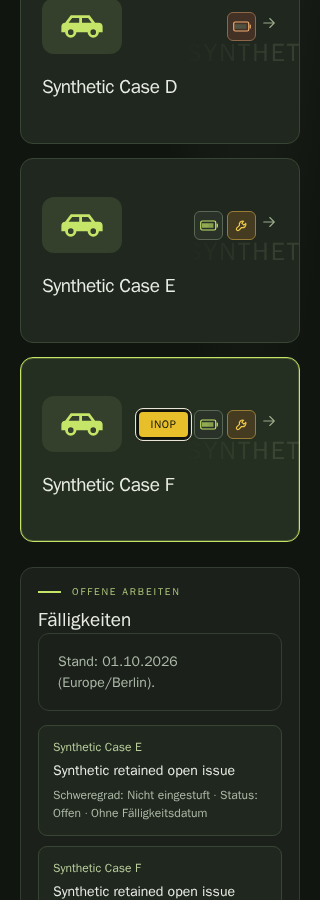
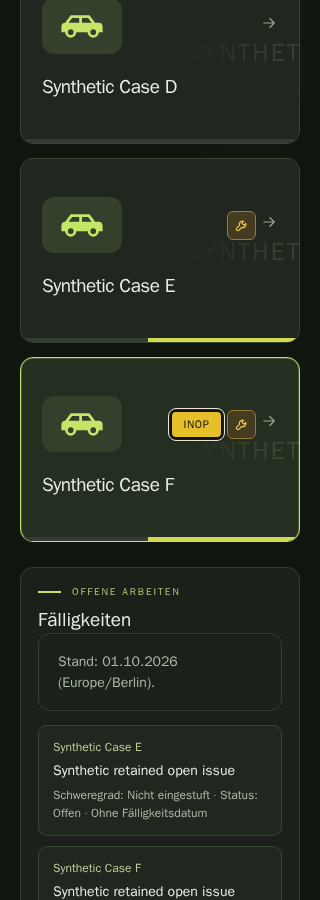
Replace HU battery with a bottom-edge countdown bar and fix schema-4 updates

diff --git a/frontend/styles.css b/frontend/styles.css
@@ -50,13 +50,12 @@
 .card-readiness.unavailable{color:#f6d1a7;border-color:#987044;background:#453523}
 .card-work{width:29px;padding:0;color:#f0c94b;background:#443b21;border-color:#987c36}
 .card-work svg{width:16px;height:16px;flex:none;stroke-width:1.8}
-.card-inspection{display:inline-flex;align-items:center;justify-content:center;width:29px;height:29px;border:1px solid #596754;border-radius:6px;background:#293128;color:#91a08c;flex:none}
-.card-inspection svg{width:18px;height:13px;stroke-width:1.6}.card-inspection svg .inspection-card-cell{fill:#596754;stroke:none}.card-inspection svg .inspection-card-cell.filled{fill:currentColor}.card-inspection.state-upcoming{color:#c5e568}.card-inspection.state-due{color:#f0c94b;background:#443b21;border-color:#987c36}.card-inspection.state-overdue{color:#f0ad70;background:#443126;border-color:#8d6748}.card-inspection.state-blocking{color:#ffccba;background:#49302a;border-color:#855947}.card-inspection.unavailable{color:#879184}
+.card-inspection-progress{position:absolute;left:0;right:0;bottom:0;height:4px;display:grid;grid-template-columns:repeat(24,minmax(0,1fr));gap:0;overflow:hidden;border-radius:0 0 12px 12px;background:#252c22;pointer-events:none}.card-inspection-cell{min-width:0;background:#353d32}.card-inspection-progress.unknown{background:#252c22}.card-inspection-progress.unknown .card-inspection-cell{background:#353d32}
 @media(max-width:350px){.card-top{gap:4px}.card-indicators{gap:4px}.car-icon{width:80px}}
 
 .inspection-panel{margin:17px 0 8px;padding:14px 15px;border:1px solid #394534;border-radius:10px;background:#171d16}
 .inspection-heading{display:flex;align-items:center;justify-content:space-between;gap:12px}.inspection-heading h4{font-size:13px;margin:0}.inspection-scale-label{color:#9daa99;font-size:10px}.inspection-message{margin:7px 0 0;color:#d6e1d2;font-size:13px;line-height:1.5;overflow-wrap:anywhere}
-.inspection-message.state-blocking{color:#ffccba}.inspection-meter-wrap{margin-top:10px}.inspection-meter{display:grid;grid-template-columns:repeat(12,minmax(0,1fr));gap:4px;max-width:500px;height:13px}.inspection-meter-cell{border:1px solid #53604d;border-radius:2px;background:#20271e}.inspection-meter-cell.filled{background:#c5e568;border-color:#8ca94c}.inspection-meter.state-due .inspection-meter-cell.filled{background:#f0c94b;border-color:#987c36}.inspection-meter.state-overdue .inspection-meter-cell.filled{background:#f0ad70;border-color:#8d6748}.inspection-meter.state-blocking .inspection-meter-cell.filled{background:#e98b72;border-color:#855947}.inspection-scale-note,.inspection-asof{font-size:10px;color:#8f9d8b;line-height:1.4;margin:6px 0 0}
+.inspection-message.state-blocking{color:#ffccba}.inspection-meter-wrap{margin-top:10px}.inspection-meter{display:grid;grid-template-columns:repeat(24,minmax(0,1fr));gap:4px;max-width:500px;height:13px}.inspection-meter-cell{border:1px solid #53604d;border-radius:2px;background:#20271e}.inspection-meter.unknown .inspection-meter-cell{background:#20271e;border-color:#53604d}.inspection-scale-note,.inspection-asof{font-size:10px;color:#8f9d8b;line-height:1.4;margin:6px 0 0}
 
 /* Standalone entry forms keep actions outside the compact vehicle cards. */
 .own-toolbar{display:flex;flex-wrap:wrap;gap:9px;margin:0 0 18px}.own-notice{color:#d3e7b1;font-size:13px;line-height:1.5}.own-notice:empty{display:none}
@@ -70,3 +69,28 @@
 .record{flex-wrap:wrap}.record-edit{margin-left:auto;flex:none}.record-edit-readonly{display:flex;flex-wrap:wrap;gap:8px 22px;padding:12px 14px;border:1px solid #485443;border-radius:9px;background:#171d16}.record-edit-readonly p{margin:0;color:#d4dfcc;font-size:13px;line-height:1.5;overflow-wrap:anywhere}
 @media(max-width:800px){.logbook-filters{grid-template-columns:repeat(2,minmax(0,1fr))}.logbook-filters>button{align-self:end}.issue-row{grid-template-columns:repeat(2,minmax(0,1fr))}.issue-field-text{grid-column:1/-1}.issue-row .issue-remove{grid-column:1/-1;justify-self:start}}
 @media(max-width:600px){.own-fields{grid-template-columns:1fr}.own-panel{padding:19px}.own-toolbar{gap:7px}.own-toolbar button{flex:1 1 auto}.own-toolbar .condition-save{flex:0 1 auto}.logbook-filters{grid-template-columns:1fr 1fr}.logbook-filters>button{grid-column:1/-1}.logbook-heading{align-items:flex-start}.work-dashboard{padding:17px}.work-items{grid-template-columns:1fr}.issue-row{grid-template-columns:1fr}.issue-field-text,.issue-row .issue-remove{grid-column:1}}
+
+.level-1 .card-inspection-cell.filled,.level-1 .inspection-meter-cell.filled{background:hsl(0 64% 58%);border-color:hsl(0 58% 45%)}
+.level-2 .card-inspection-cell.filled,.level-2 .inspection-meter-cell.filled{background:hsl(5 64% 58%);border-color:hsl(5 58% 45%)}
+.level-3 .card-inspection-cell.filled,.level-3 .inspection-meter-cell.filled{background:hsl(10 64% 58%);border-color:hsl(10 58% 45%)}
+.level-4 .card-inspection-cell.filled,.level-4 .inspection-meter-cell.filled{background:hsl(16 64% 58%);border-color:hsl(16 58% 45%)}
+.level-5 .card-inspection-cell.filled,.level-5 .inspection-meter-cell.filled{background:hsl(21 64% 58%);border-color:hsl(21 58% 45%)}
+.level-6 .card-inspection-cell.filled,.level-6 .inspection-meter-cell.filled{background:hsl(26 64% 58%);border-color:hsl(26 58% 45%)}
+.level-7 .card-inspection-cell.filled,.level-7 .inspection-meter-cell.filled{background:hsl(31 64% 58%);border-color:hsl(31 58% 45%)}
+.level-8 .card-inspection-cell.filled,.level-8 .inspection-meter-cell.filled{background:hsl(37 64% 58%);border-color:hsl(37 58% 45%)}
+.level-9 .card-inspection-cell.filled,.level-9 .inspection-meter-cell.filled{background:hsl(42 64% 58%);border-color:hsl(42 58% 45%)}
+.level-10 .card-inspection-cell.filled,.level-10 .inspection-meter-cell.filled{background:hsl(47 64% 58%);border-color:hsl(47 58% 45%)}
+.level-11 .card-inspection-cell.filled,.level-11 .inspection-meter-cell.filled{background:hsl(52 64% 58%);border-color:hsl(52 58% 45%)}
+.level-12 .card-inspection-cell.filled,.level-12 .inspection-meter-cell.filled{background:hsl(57 64% 58%);border-color:hsl(57 58% 45%)}
+.level-13 .card-inspection-cell.filled,.level-13 .inspection-meter-cell.filled{background:hsl(63 64% 58%);border-color:hsl(63 58% 45%)}
+.level-14 .card-inspection-cell.filled,.level-14 .inspection-meter-cell.filled{background:hsl(68 64% 58%);border-color:hsl(68 58% 45%)}
+.level-15 .card-inspection-cell.filled,.level-15 .inspection-meter-cell.filled{background:hsl(73 64% 58%);border-color:hsl(73 58% 45%)}
+.level-16 .card-inspection-cell.filled,.level-16 .inspection-meter-cell.filled{background:hsl(78 64% 58%);border-color:hsl(78 58% 45%)}
+.level-17 .card-inspection-cell.filled,.level-17 .inspection-meter-cell.filled{background:hsl(83 64% 58%);border-color:hsl(83 58% 45%)}
+.level-18 .card-inspection-cell.filled,.level-18 .inspection-meter-cell.filled{background:hsl(89 64% 58%);border-color:hsl(89 58% 45%)}
+.level-19 .card-inspection-cell.filled,.level-19 .inspection-meter-cell.filled{background:hsl(94 64% 58%);border-color:hsl(94 58% 45%)}
+.level-20 .card-inspection-cell.filled,.level-20 .inspection-meter-cell.filled{background:hsl(99 64% 58%);border-color:hsl(99 58% 45%)}
+.level-21 .card-inspection-cell.filled,.level-21 .inspection-meter-cell.filled{background:hsl(104 64% 58%);border-color:hsl(104 58% 45%)}
+.level-22 .card-inspection-cell.filled,.level-22 .inspection-meter-cell.filled{background:hsl(110 64% 58%);border-color:hsl(110 58% 45%)}
+.level-23 .card-inspection-cell.filled,.level-23 .inspection-meter-cell.filled{background:hsl(115 64% 58%);border-color:hsl(115 58% 45%)}
+.level-24 .card-inspection-cell.filled,.level-24 .inspection-meter-cell.filled{background:hsl(120 64% 58%);border-color:hsl(120 58% 45%)}

diff --git a/frontend/app.js b/frontend/app.js
@@ -91,23 +91,21 @@ function issueReason(issue, vehicleId) {
   const projection = currentWorkProjection(vehicleId, issue);
   return [issue.severity === "critical" ? "Kritisch" : "", projection && dueStateLabels[projection.dueState] || "", issue.dueDate ? `fällig ${readableDate(issue.dueDate)}` : ""].filter(Boolean).join(", ");
 }
-function cardInspectionBattery(vehicle) {
-  const valid = validInspection(vehicle), value = valid ? vehicle.inspection : null;
-  const battery = el("span", `card-inspection ${valid ? `state-${value.state}` : "unavailable"}`);
-  battery.setAttribute("title", inspectionSummary(vehicle));
-  const svg = document.createElementNS("http://www.w3.org/2000/svg", "svg");
-  svg.setAttribute("viewBox", "0 0 24 16"); svg.setAttribute("aria-hidden", "true");
-  const frame = document.createElementNS("http://www.w3.org/2000/svg", "rect");
-  frame.setAttribute("x", "1"); frame.setAttribute("y", "2"); frame.setAttribute("width", "20"); frame.setAttribute("height", "12"); frame.setAttribute("rx", "2"); frame.setAttribute("fill", "none");
-  const tip = document.createElementNS("http://www.w3.org/2000/svg", "path"); tip.setAttribute("d", "M23 6v4");
-  const level = valid ? value.batteryLevel : null;
-  const cells = Array.from({length:12}, (_, index) => {
-    const cell = document.createElementNS("http://www.w3.org/2000/svg", "rect");
-    cell.setAttribute("x", String(3 + index * 1.25)); cell.setAttribute("y", "5"); cell.setAttribute("width", "0.9"); cell.setAttribute("height", "6");
-    cell.setAttribute("class", level !== null && index < level ? "inspection-card-cell filled" : "inspection-card-cell");
-    return cell;
+function inspectionVisualLevel(vehicle) {
+  if (!state.inspectionStatus || !validInspection(vehicle) || vehicle.inspection.monthsUntilDue === null) return null;
+  return Math.max(0, Math.min(24, vehicle.inspection.monthsUntilDue));
+}
+function inspectionBarCells(level, className) {
+  return Array.from({length:24}, (_, index) => {
+    const cell = el("span", `${className}-cell${level !== null && index >= 24 - level ? " filled" : ""}`);
+    cell.setAttribute("aria-hidden", "true"); return cell;
   });
-  svg.append(frame, tip, ...cells); battery.append(svg); return battery;
+}
+function cardInspectionProgress(vehicle) {
+  const level = inspectionVisualLevel(vehicle);
+  const bar = el("span", `card-inspection-progress ${level === null ? "unknown" : `level-${level}`}`);
+  bar.setAttribute("title", inspectionSummary(vehicle)); bar.setAttribute("aria-hidden", "true");
+  bar.replaceChildren(...inspectionBarCells(level, "card-inspection")); return bar;
 }
 // These indicators share the existing header row; the detailed state remains in the accessible card name and detail panel.
 function cardIndicators(condition, issues, vehicleId, vehicle) {
@@ -116,7 +114,6 @@ function cardIndicators(condition, issues, vehicleId, vehicle) {
   const symbols = {not_ready: "INOP", unknown: "?", unavailable: "!"};
   const label = Object.hasOwn(readinessLabels, readiness) ? readinessLabels[readiness] : "Status nicht verfügbar";
   if (symbols[readiness]) { const indicator = el("span", `card-readiness ${readiness}`, symbols[readiness]); indicator.setAttribute("title", label); group.append(indicator); }
-  if (state.inspectionStatus) group.append(cardInspectionBattery(vehicle));
   if (validCondition(condition) && issues.length) { const warning = el("span", "card-work"); const reasons = issues.slice(0, 2).map(issue => `${display(issue.text)}${issueReason(issue, vehicleId) ? ` (${issueReason(issue, vehicleId)})` : ""}`); warning.setAttribute("title", state.scheduledWork && reasons.length ? `Offene Arbeit: ${reasons.join("; ")}` : "Wartung ausstehend"); warning.append(icon("tool")); group.append(warning); }
   return group;
 }
@@ -134,6 +131,7 @@ function renderCards() {
     button.append(top, name); if (plate || year) button.append(meta);
     const mileage = distance(vehicle.odometer, vehicle.odometerUnit); if (mileage) button.append(el("p", "mileage", mileage));
     if (make) button.append(make);
+    if (state.inspectionStatus) button.append(cardInspectionProgress(vehicle));
     button.addEventListener("click", () => selectVehicle(id)); container.append(button);
   }
 }
@@ -153,12 +151,12 @@ function renderInspection(vehicle) {
   if (!validInspection(vehicle)) { message.className = "inspection-message"; message.textContent = "HU-Status momentan nicht verfügbar."; asOf.textContent = ""; meterWrap.hidden = true; meter.replaceChildren(); return; }
   const value = vehicle.inspection; message.className = `inspection-message state-${value.state}`; message.textContent = inspectionSummary(vehicle);
   asOf.textContent = `Stand: ${readableDate(value.asOf)} (Europe/Berlin).`;
-  meterWrap.hidden = value.batteryLevel === null;
-  if (value.batteryLevel === null) { meter.replaceChildren(); meter.removeAttribute("aria-label"); return; }
-  meter.className = `inspection-meter state-${value.state}`;
+  meterWrap.hidden = false;
+  const level = inspectionVisualLevel(vehicle);
+  meter.className = `inspection-meter ${level === null ? "unknown" : `level-${level}`}`;
   meter.setAttribute("role", "img");
-  meter.setAttribute("aria-label", `HU-Vorlauf: ${value.batteryLevel} von 12 Monaten; Anzeige auf 12 Monate begrenzt.`);
-  meter.replaceChildren(...Array.from({length:12}, (_, index) => { const cell = el("span", `inspection-meter-cell${index < value.batteryLevel ? " filled" : ""}`); cell.setAttribute("aria-hidden", "true"); return cell; }));
+  meter.setAttribute("aria-label", level === null ? "HU-Vorlauf unbekannt; Darstellung neutral." : `HU-Vorlauf: ${value.monthsUntilDue} Monate; visuelle Darstellung auf 24 Monate begrenzt.`);
+  meter.replaceChildren(...inspectionBarCells(level, "inspection-meter"));
 }
 function renderCondition(condition) {
   const vehicle = selectedVehicle();

diff --git a/frontend/index.html b/frontend/index.html
@@ -61,7 +61,7 @@
       <div id="own-detail-actions" class="own-toolbar" hidden><button id="vehicle-edit" class="condition-edit" type="button">Fahrzeug bearbeiten</button><button id="odometer-add" class="condition-edit" type="button">Stand erfassen</button><button id="record-add" class="condition-edit" type="button">Arbeit dokumentieren</button><button id="history-toggle" class="condition-edit" type="button" aria-controls="history-panel" aria-expanded="false">Verlauf anzeigen</button><button id="logbook-toggle" class="condition-edit" type="button" aria-controls="logbook-panel" aria-expanded="false" hidden>Logbuch anzeigen</button></div>
       <article id="condition-panel" class="condition-panel" aria-labelledby="condition-title">
         <div class="condition-heading"><div><p class="eyebrow"><span class="eyebrow-line"></span> AKTUELLER ZUSTAND</p><h3 id="condition-title">Fahrbereitschaft &amp; offene Punkte</h3></div><button id="condition-edit" class="condition-edit" type="button" aria-controls="condition-form" aria-expanded="false">Bearbeiten</button></div>
-        <div id="condition-view"><div id="condition-readiness"></div><p id="condition-work-asof" class="condition-work-asof" role="status" aria-live="polite" hidden></p><section id="inspection-panel" class="inspection-panel" aria-labelledby="inspection-heading" hidden><div class="inspection-heading"><h4 id="inspection-heading">HU / TÜV</h4><span class="inspection-scale-label">Vorlauf · 12 Monate</span></div><p id="inspection-message" class="inspection-message" role="status" aria-live="polite"></p><div id="inspection-meter-wrap" class="inspection-meter-wrap" hidden><div id="inspection-meter" class="inspection-meter" role="img"></div><p class="inspection-scale-note">Die Batterie zeigt den Vorlauf der nächsten zwölf Monate.</p></div><p id="inspection-asof" class="inspection-asof"></p></section><div id="issue-filter-wrap" class="issue-filter-wrap" hidden><label for="issue-filter">Punkte filtern</label><select id="issue-filter"><option value="all">Alle</option><option value="overdue">Überfällig</option><option value="today">Heute</option><option value="critical">Kritisch</option><option value="observed">Beobachtet</option></select></div><div id="condition-issues" class="condition-issues"></div></div>
+        <div id="condition-view"><div id="condition-readiness"></div><p id="condition-work-asof" class="condition-work-asof" role="status" aria-live="polite" hidden></p><section id="inspection-panel" class="inspection-panel" aria-labelledby="inspection-heading" hidden><div class="inspection-heading"><h4 id="inspection-heading">HU / TÜV</h4><span class="inspection-scale-label">Darstellung: 24 Monate</span></div><p id="inspection-message" class="inspection-message" role="status" aria-live="polite"></p><div id="inspection-meter-wrap" class="inspection-meter-wrap" hidden><div id="inspection-meter" class="inspection-meter" role="img"></div><p class="inspection-scale-note">Die Leiste zeigt den visuellen Vorlauf der nächsten 24 Monate.</p></div><p id="inspection-asof" class="inspection-asof"></p></section><div id="issue-filter-wrap" class="issue-filter-wrap" hidden><label for="issue-filter">Punkte filtern</label><select id="issue-filter"><option value="all">Alle</option><option value="overdue">Überfällig</option><option value="today">Heute</option><option value="critical">Kritisch</option><option value="observed">Beobachtet</option></select></div><div id="condition-issues" class="condition-issues"></div></div>
         <form id="condition-form" class="condition-form" hidden>
           <label for="readiness-input">Manuelle Fahrbereitschaft</label>
           <select id="readiness-input" name="readiness"><option value="unknown">Nicht erfasst</option><option value="ready">Fahrbereit</option><option value="not_ready">Nicht fahrbereit</option></select>

diff --git a/tests/test_own_live_update.py b/tests/test_own_live_update.py
@@ -202,7 +202,7 @@ class LiveUpdaterTests(unittest.TestCase):
                  mock.patch.object(updater, "_image_schema", return_value=candidate_schema), \
                  mock.patch.object(updater, "_run") as run:
                 if original_schema == candidate_schema and original_schema in {3, 4}:
-                    updater._candidate_preflight("old:sha", "new:sha", self.config)
+                    self.assertEqual(updater._candidate_preflight("old:sha", "new:sha", self.config), candidate_schema)
                     self.assertEqual(run.call_count, 2, "same-schema candidate check remains isolated")
                 else:
                     with self.assertRaisesRegex(updater.UpdateError, "schemas must match supported schema 3 or 4"):
@@ -215,6 +215,46 @@ class LiveUpdaterTests(unittest.TestCase):
         for live, candidate in ((3, 4), (4, 3), (2, 2)):
             with self.subTest(live=live, candidate=candidate):
                 preflight(live, candidate)
+
+    def test_deployment_allows_matching_schema4_and_blocks_cross_schema_before_candidate_start(self):
+        state = Path(self.config["GARAGE_UPDATE_STATE_DIR"])
+        state.mkdir(mode=0o700)
+
+        def make_live_backup(_image, _volume, workdir, filename):
+            with closing(sqlite3.connect(Path(workdir) / filename)) as database:
+                database.execute("CREATE TABLE meta (schema INTEGER NOT NULL)")
+                database.execute("INSERT INTO meta VALUES (4)")
+                database.commit()
+
+        compose_calls = []
+
+        def compose(_config, image, *args):
+            compose_calls.append((image, args))
+
+        with mock.patch.object(updater, "_safe_hook"), \
+             mock.patch.object(updater, "_compose", side_effect=compose), \
+             mock.patch.object(updater, "_backup_from_volume", side_effect=make_live_backup), \
+             mock.patch.object(updater, "_service_container", return_value="candidate-container"), \
+             mock.patch.object(updater, "_health", return_value=True), \
+             mock.patch.object(updater, "_run"), \
+             mock.patch.object(updater, "github_main_sha", return_value=SHA), \
+             mock.patch.object(updater, "checks_succeeded", return_value=True):
+            updater._deploy_candidate("new:sha", "old:sha", SHA, self.config, self.config, candidate_schema=4)
+        self.assertIn(("new:sha", ("up", "-d", "--no-deps", "garage_live")), compose_calls)
+
+        compose_calls.clear()
+        with mock.patch.object(updater, "_safe_hook"), \
+             mock.patch.object(updater, "_compose", side_effect=compose), \
+             mock.patch.object(updater, "_backup_from_volume", side_effect=make_live_backup), \
+             mock.patch.object(updater, "_service_container", return_value="old-container"), \
+             mock.patch.object(updater, "_health", return_value=True), \
+             mock.patch.object(updater, "_run"), \
+             mock.patch.object(updater, "github_main_sha", return_value=SHA), \
+             mock.patch.object(updater, "checks_succeeded", return_value=True):
+            with self.assertRaisesRegex(updater.UpdateError, "schemas must match supported schema 3 or 4"):
+                updater._deploy_candidate("new:sha", "old:sha", SHA, self.config, self.config, candidate_schema=3)
+        self.assertNotIn(("new:sha", ("up", "-d", "--no-deps", "garage_live")), compose_calls)
+        self.assertIn(("old:sha", ("up", "-d", "--no-deps", "garage_live")), compose_calls)
 
     def test_failed_prepare_hook_does_not_stop_or_restart_live_service(self):
         with mock.patch.object(updater, "_safe_hook", side_effect=[updater.UpdateError("prepare failed"), None]) as hook, \

diff --git a/deploy/update-live.py b/deploy/update-live.py
@@ -257,6 +257,7 @@ def _candidate_preflight(old_image, candidate, config):
               "python", "-m", "wolfs_garage", "check-db"], timeout=300)
         if _schema(workdir / "candidate.sqlite3") != candidate_schema:
             raise UpdateError("Automatic update blocked: isolated candidate check changed the database schema.")
+        return candidate_schema
 
 
 def _write_active_sha(state_dir, sha):
@@ -280,7 +281,7 @@ def _write_active_sha(state_dir, sha):
         raise
 
 
-def _deploy_candidate(candidate, old_image, sha, config, compose_config):
+def _deploy_candidate(candidate, old_image, sha, config, compose_config, candidate_schema=None):
     prepare = config["GARAGE_MAINTENANCE_PREPARE"]
     finish = config["GARAGE_MAINTENANCE_FINISH"]
     prepare_attempted = False
@@ -299,8 +300,11 @@ def _deploy_candidate(candidate, old_image, sha, config, compose_config):
             moved = Path(temp) / backup_path.name
             os.link(moved, backup_path, follow_symlinks=False)
         old_schema = _schema(backup_path)
-        if old_schema != 3:
-            raise UpdateError("Automatic update blocked: live schema is not 3.")
+        if candidate_schema is None:
+            candidate_schema = _image_schema(candidate)
+        if (old_schema != candidate_schema or old_schema not in {3, 4}
+                or candidate_schema not in {3, 4}):
+            raise UpdateError("Automatic update blocked: live and candidate schemas must match supported schema 3 or 4.")
 
         candidate_start_attempted = True
         _compose(compose_config, candidate, "up", "-d", "--no-deps", "garage_live")
@@ -405,7 +409,7 @@ def update_once(config, env_file):
         _run(["docker", "build", "--label", f"org.opencontainers.image.revision={sha}",
               "-f", str(release / "deploy/Dockerfile.standalone"), "-t", candidate, str(release)], timeout=1800)
         old_image, old_container = _running_image(config, config)
-        _candidate_preflight(old_image, candidate, config)
+        candidate_schema = _candidate_preflight(old_image, candidate, config)
         if github_main_sha() != sha or not checks_succeeded(sha):
             print(f"Main moved from {sha} before deployment; retrying on the next timer tick.")
             return False
@@ -417,7 +421,7 @@ def update_once(config, env_file):
             _write_active_sha(state_dir, sha)
             print(f"Latest tested main is already running: {sha}.")
             return False
-        _deploy_candidate(candidate, old_image, sha, config, config)
+        _deploy_candidate(candidate, old_image, sha, config, config, candidate_schema)
         _write_active_sha(state_dir, sha)
         print(f"Updated Wolfs Garage to tested main {sha}.")
         return True

diff --git a/docs/planning/inspection-status.md b/docs/planning/inspection-status.md
@@ -9,7 +9,7 @@ The stored value is nullable `YYYY-MM`. An unknown value stays `unknown` with no
 - Positive: `upcoming`; zero: `due`; minus one: `overdue`; minus two or less: `blocking`.
 - `validUntil` is the last calendar day of the due month. `blockingFrom` is the first day two calendar months after that month.
 - Thus an August due month becomes overdue during September and blocks the readiness projection on October 1 under this owner's policy. This is a product rule, not a statement of law.
-- `batteryLevel` is the remaining month count clamped to 0–12; `scaleMonths` is 12. Unknown dates have a `null` battery level.
+- The API compatibility fields remain `batteryLevel` (remaining month count clamped to 0–12) and `scaleMonths: 12`; unknown dates have a `null` battery level. The interface uses a separate, visual-only 24-month window derived from the unclamped `monthsUntilDue`: clamp that value to 0–24 for the display. At 24 or more months the bar is full green; as the date approaches, its remaining fill stays anchored to the right, empties from the left, and shifts gradually toward red. At zero or less the bar is empty. An unknown month has a neutral empty indicator. This 24-month display window is not a maintenance interval, does not infer a due date, and does not alter the API value or inspection policy.
 
 The projected `effectiveReadiness` is `not_ready` if manually stored readiness is already `not_ready` or inspection state is `blocking`; otherwise it equals stored readiness. Inspection never changes the stored readiness, issue list, odometer readings, or history. Updating/clearing the due month removes only the inspection-derived block. Manual `not_ready` remains in effect.
 
@@ -23,7 +23,7 @@ Portable export format 2 includes the raw `inspectionDueMonth` in stored vehicle
 
 ## Acceptance focus
 
-Synthetic tests cover month and year boundaries, leap-year month ends, the Berlin date, clamped and unknown battery values, manual/effective readiness separation, renewal and clearing behavior, stale revisions, invalid stored values, export shape, and explicit upgrades from schema 1/2/3 with rollback and backup checks. Browser acceptance uses a fixed-clock test-only WSGI app and synthetic vehicles. No live vehicle data belongs in fixtures or screenshots.
+Synthetic tests cover month and year boundaries, leap-year month ends, the Berlin date, clamped and unknown API compatibility values, manual/effective readiness separation, renewal and clearing behavior, stale revisions, invalid stored values, export shape, and explicit upgrades from schema 1/2/3 with rollback and backup checks. Browser acceptance uses a fixed-clock test-only WSGI app and synthetic vehicles. It checks the independent 24-month visual window and right-anchored fill. No live vehicle data belongs in fixtures or screenshots.
 
 For the browser run, initialize a new temporary schema-4 database, then serve only the preview app on loopback. Its fixed clock is test-only:
 
@@ -38,10 +38,10 @@ In the isolated Chromium environment run `node tests/inspection_browser.cjs`. Th
 
 ## Verification evidence — 2026-10-28
 
-All 116 tests matching `test_own_*.py` passed. Real Chromium passed against the fixed-clock preview: unknown, upcoming, due, overdue and blocking states; month editing and renewal; manual readiness preservation; the 12-cell clamp; unchanged card height; and no horizontal overflow at 320, 390, 768 and 1280 pixels. Screenshots: [12-month battery](../discovery/evidence/inspection-battery-mobile.png), [compact vehicle cards](../discovery/evidence/inspection-cards-mobile.png), and the [320px INOP card with open work and battery](../discovery/evidence/inspection-inop-card-320.png).
+All 116 tests matching `test_own_*.py` passed. The real-Chromium acceptance run against the fixed-clock preview covered unknown, upcoming, due, overdue and blocking states; month editing and renewal; manual readiness preservation; the API's 12-month clamp; the visual 24-month scale (full green at 24+, right-aligned partial fill, red at one month, neutral empty for unknown); unchanged card height; and no horizontal overflow at 320, 390, 768 and 1280 pixels. Screenshots: [vehicle cards](../discovery/evidence/inspection-cards-mobile.png), [24-month status bar](../discovery/evidence/inspection-status-bar-mobile.png), and [320px INOP card](../discovery/evidence/inspection-inop-card-320.png). The earlier [battery-design screenshot](../discovery/evidence/inspection-battery-mobile.png) is retained as historical evidence only.
 
 An isolated CLI rehearsal upgraded a copy of a synthetic schema-3 database to schema 4, verified the backup remained schema 3, restored that backup to a separate file, and checked it with the older schema-3 image. All six pre-existing tables' data matched across source and upgraded copy; only the vehicle rows gained the new nullable column. The original source copy was unchanged. These checks used synthetic data; no production migration or deployment was part of this verification.
 
 ## Private reference rollout note
 
-The merged `main` revision `f0a6` is running schema 4 on the private reference instance. A fresh checked schema-3 backup was copied to independent NAS storage and checksum-verified. Upgrade and old-image restore preflight on a separate copy preserved all six tables; only `vehicles` gained the nullable inspection field, and all five existing vehicles remained. Runtime/API `0.1.0a6`, `inspectionStatus`, and export format 2 were verified. Existing inspection months remain unknown until entered by the owner; no values were inferred. The maintenance/update timer is enabled; automatic updates accept same-schema 3 or 4 and fail closed across schema changes. The first schema-3 automatic rollout was independently verified; routine schema-4 automatic redeployment remains to be verified.
+The merged `main` revision `f0b8c0c` is running schema 4 on the private reference instance. A fresh checked schema-3 backup was copied to independent NAS storage and checksum-verified. Upgrade and old-image restore preflight on a separate copy preserved all six tables; only `vehicles` gained the nullable inspection field, and all five existing vehicles remained. Runtime/API `0.1.0a6`, `inspectionStatus`, and export format 2 were verified. Existing inspection months remain unknown until entered by the owner; no values were inferred. The maintenance/update timer is enabled; automatic updates accept same-schema 3 or 4 and fail closed across schema changes. The first schema-3 automatic rollout was independently verified; routine schema-4 automatic redeployment remains to be verified.

diff --git a/docs/requirements.md b/docs/requirements.md
@@ -70,6 +70,7 @@ Status: Produktanforderungen mit entschiedener eigenständiger Entwicklung unter
 - REQ-052: Andere Betreiber können die Anwendung mit generischer Konfiguration und eigener Datenhaltung selbst installieren. Persönliche Fahrzeugdaten, Hostkonfiguration und Geheimnisse gehören nicht in die öffentliche Quelle oder Beispieldaten.
 - REQ-053: Der Kern funktioniert ohne verpflichtende Cloud-APIs. Cloudflare Access bleibt der gewünschte Eingang der Referenzinstallation; andere Betreiber können einen passenden authentifizierenden Reverse-Proxy einsetzen. Ein eigenes Mehrrollen- oder Mandantensystem wird dadurch nicht beauftragt.
 - REQ-054: Einen vom Betreiber eingegebenen HU-Fälligkeitsmonat als `YYYY-MM` speichern und daraus einen Europe/Berlin-Status sowie eine getrennte Readiness-Projektion ableiten. Ein unbekannter Monat bleibt unbekannt; die gespeicherte manuelle Fahrbereitschaft wird nicht verändert. Die Frist- und Blockierungsregel ist eine explizite Betreiberregel, keine Aussage über gesetzliche Fristen.
+- REQ-055: Den HU-Monat zusätzlich als schmale visuelle Leiste am Kartenboden und in der Detailansicht darstellen. Die Leiste nutzt ein festes 24-Monats-Anzeigefenster aus dem bereits abgeleiteten Monatsabstand: bei mindestens 24 Monaten voll und grün, dann rechts verankert mit von links abnehmender Füllung und graduellem Farbwechsel zu Rot, bei null oder weniger leer. Ein unbekannter Monat bleibt neutral und leer. Das Anzeigefenster ist ausschließlich visuell; es setzt keine Frist, leitet keine Intervalle ab und ändert weder Backend-/API-Felder noch die Betreiberregel.
 
 Der erste eigenständige Entwicklungsstand umfasst Fahrzeuge, unabhängige Fahrbereitschaft/offene Punkte, Kilometer, Service-/Reparaturbelege, Verlauf und Backup. Die abgeschlossenen Vorgänge und Kilometerstände lassen sich inzwischen vollständig, gefiltert und seitenweise browsen. Bereits implementiert sind begrenzte Belegkorrekturen an Beschreibung, Art, Kosten, Währung und Dokumentreferenz mit Begründung und Vorher-/Nachher-Verlauf. Bestehende offene Punkte können ein optionales Fälligkeitsdatum, einen vom Nutzer gesetzten Schweregrad (`observation`, `repair`, `critical`; `null` bedeutet nicht eingestuft) sowie `open`/`observed` als aktive Lebenszyklen erhalten. Ein lesendes Dashboard zeigt überfällige, heute fällige, kommende und undatierte Punkte mit Europe/Berlin-Tagesgrenzen. Ein gespeicherter HU-Monat erzeugt zusätzlich einen abgeleiteten Status und kann nach der dokumentierten Betreiberregel die Readiness-Projektion auf `not_ready` setzen; die manuelle Fahrbereitschaft und offene Punkte bleiben unverändert. Das ist keine Rechtsauskunft oder Bewertung einer gesetzlichen Frist. Das Dashboard für offene Arbeit ist ein begrenzter Arbeitsstatus für vorhandene Punkte, noch kein vollständiges technisches Logbuch: Diagnoseereignisse, Schweregrad-Historie, Wiederholungsfälle, wiederkehrende Intervalle und Erinnerungen bleiben offen. Korrekturen von Belegdatum und Kilometerstand bleiben weitere Arbeitspakete; ebenso Anhänge, Teile, Telegram, Kalender und KI. Die bestehenden Anforderungen werden dadurch nicht gestrichen.
 
